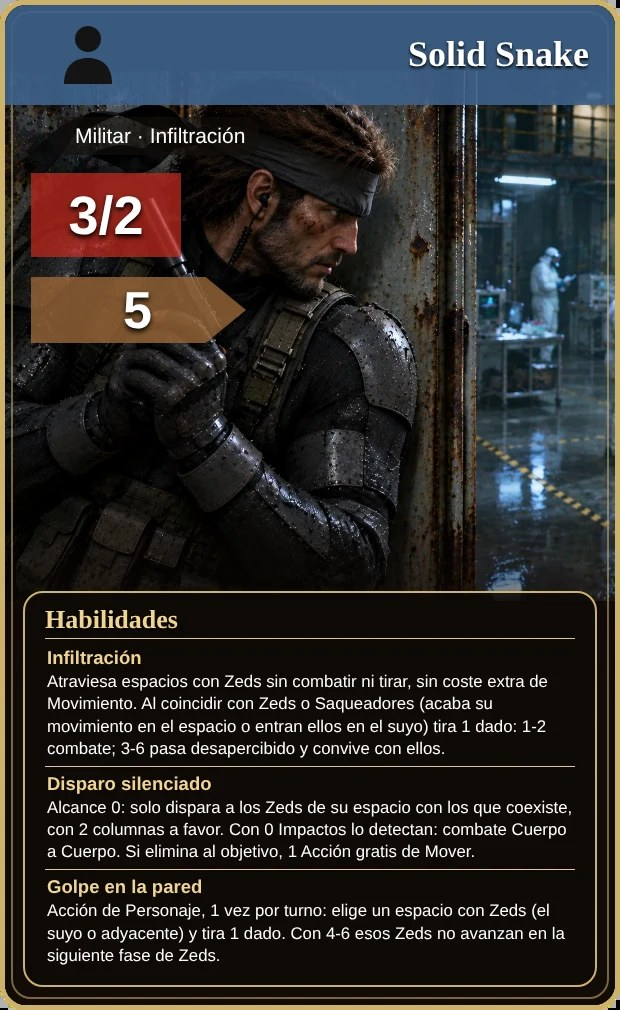
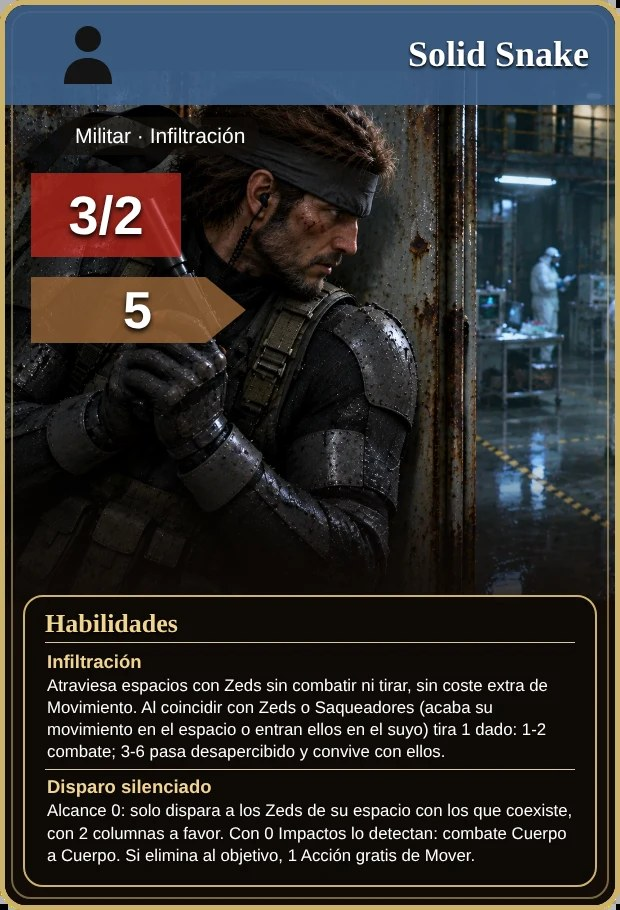
Solid Snake: se quita la acción «Golpe en la pared» (no pedida); carta ajustada a 2 habilidades
Claude-Session: https://claude.ai/code/session_01KmRiLcYw81ZWXjSnc4kn6e

diff --git a/js/actions.js b/js/actions.js
@@ -131,8 +131,6 @@ function trapSpaces(u) {
   return [u.space].concat(adjacentIds(u.space)).filter((id, k, a) => a.indexOf(id) === k && sp(id) && isRouteSp(id) && !isInit(id) && sp(id).kind !== 'crypt' && !blocked(id) && !zedsAt(id).length && !hasTrap(sp(id).route));
 }
 /* Salto temporal (Doc Brown): solo desde el Centro, 3 Suministros, a un espacio de ruta de superficie sin Zeds que no sea Inicial. Un acompañante (Héroe o Civiles Heroicos que puedan usar vehículos) puede quedarse allí. */
-/* Solid Snake, Golpe en la pared: espacios con Zeds (el suyo o adyacentes) que puede distraer. */
-function golpeTargets(u) { return [u.space].concat(adjacentIds(u.space)).filter((id, i, a) => id && G.spaces[id] && !isInit(id) && a.indexOf(id) === i && zedsAt(id).length > 0); }
 const DOC_NO_RIDE = ['pepinillos', 'horacio', 'lee', 'carter', 'heli'];
 function docCompanions(u) { return unitsAt('C').filter(x => x !== u && (x.type === 'hero' || x.type === 'civh') && !DOC_NO_RIDE.includes(x.key) && !x.ecg && !x.mount && !x.rider && !x.resist && !isPetra(x)); }
 function docJumpSpaces(u, comp) {
@@ -201,7 +199,6 @@ function unitActions(u) {
     if (u.key === 'jones') A.push({ id: 'planes', label: 'Sus Propios Planes', ok: cu('planes') });
     if (u.key === 'jones' && G.res && u.space && sp(u.space).kind === 'office') A.push({ id: 'jhosp', label: 'Sus Propios Planes: paciente al Cementerio + Investigación', ok: cu('planes') && G.res.deck.length > 0 && hospitalUnits(u).length > 0 });
     if (u.key === 'hunt') A.push({ id: 'lid', label: 'Liderazgo', ok: cu('lid') });
-    if (u.key === 'snake') A.push({ id: 'pared', label: 'Golpe en la pared', ok: cu('pared') && golpeTargets(u).length > 0 });
     if (u.key === 'alia') A.push({ id: 'calle', label: 'Ya no es hora de estar en la calle', ok: cu('calle') && calleTargets(u).length > 0 });
     if (u.key === 'heli') A.push({ id: 'vuelo', label: 'Vuelo: despegar (1 Suministro)', ok: cu('vuelo') && G.supplies >= 1 && heliLandSpaces(u, null).some(id => id !== u.space) });
     if (u.key === 'brigada') A.push({ id: 'desinf', label: 'Desinfección (−2 Infección, 1 acc.)', ok: pay(1) && !!G.lv.infection && G.inf > 0 });
@@ -260,14 +257,6 @@ async function runAction(u, id) {
     case 'bcure': G.supplies--; healUnit(u); u.curedTurn = G.turnNo; LOG(u.name + ' se repara en el Centro (−1 Suministro).', 'good'); UI.redraw(); UI.updateStats(); break;
     case 'jhosp': { const c = hospitalUnits(u); if (!c.length) break; const v = await UI.pickUnit(c, 'Jones: elige la unidad del Hospital que va al Cementerio.', true); if (v == null) break; G.charUsed.planes = true; await sendCemetery(G.units[v], 'es trasladada al Cementerio por Jones'); await revealResearch(); break; }
     case 'planes': G.charUsed.planes = true; u.free++; LOG('Jones usa Sus Propios Planes: 1 acción gratis para él.', 'good'); break;
-    case 'pared': {
-      const c = golpeTargets(u); if (!c.length) { LOG('No hay Zeds a los que distraer.'); break; }
-      const d = c.length === 1 ? c[0] : await UI.pickSpace(c, 'Golpe en la pared: elige el espacio de Zeds a distraer (el suyo o uno adyacente).', true); if (d == null) break;
-      G.charUsed.pared = true;
-      const r = await rollShownFor(u, 'Golpe en la pared (Solid Snake)', r => r >= 4 ? '<b>' + r + '</b>: los Zeds se distraen y no avanzarán este turno' : '<b>' + r + '</b>: no pican (necesita 4-6)'); LOG('Golpe en la pared: ' + r);
-      if (r >= 4) { G.turn.distraidos = (G.turn.distraidos || []).concat(d); LOG('Los Zeds de ' + spaceLabel(d) + ' siguen el ruido y no avanzarán en la fase de Zeds.', 'good'); } else LOG('Los Zeds ignoran el ruido.');
-      break;
-    }
     case 'calle': { const c = calleTargets(u); if (!c.length) { LOG('No hay Civiles que puedan avanzar.'); break; } const v = c.length === 1 ? c[0].id : await UI.pickUnit(c, 'Elige la unidad que avanza hacia el Centro.', true); if (v == null) break; const x = G.units[v], ds = calleDests(x); const d = ds.length === 1 ? ds[0] : await UI.pickSpace(ds, 'Alia: elige el destino de ' + x.name + ' (hasta 2 espacios hacia el Centro).', true); if (d == null) break; G.charUsed.calle = true; if (x.resist) { x.resist = false; LOG(x.name + ' deja de estar Resistiendo.'); } LOG('Alia manda a ' + x.name + ' hacia el Centro.', 'good'); await doMove(x, d, [x.space, d]); break; }
     case 'despejar': {
       if (!despejarOk(u)) { LOG('No se puede Despejar aquí.'); break; }

diff --git a/js/expansions.js b/js/expansions.js
@@ -37,7 +37,7 @@ Object.assign(HEROES, {
   caza: { name: 'Club de Caza de Farmingdale', type: 'civh', cls: 'Civiles Heroicos', full: 3, red: 2, mp: 3, img: 'caza', card: 'h_caza', lv: 2, exp: 4, hf: 2, hr: 2,
     txt: ['<b>Puesto de caza:</b> disparan a 2 espacios sin penalización de columna.', '<b>Trofeo:</b> cuando su disparo elimina a una unidad Zed, recuperan 1 Munición.', '<b>Presa marcada:</b> Acción de Personaje (1 Acción), una vez por turno: marcan una unidad Zed a su alcance. Los disparos de cualquier unidad de jugador contra ella tienen 1 columna a favor hasta que sea eliminada o termine el turno.', '<b>A campo abierto:</b> tienen 1 columna en contra en combates Cuerpo a Cuerpo.'] },
   snake:     { name: 'Solid Snake',        type: 'hero', cls: 'Militar',    full: 3, red: 2, mp: 5, img: 'snake', card: 'h_snake', lv: 1, exp: 4,
-    txt: ['<b>Infiltración:</b> puede atravesar espacios con Zeds sin combatir ni tirar, y sin coste extra de Movimiento. Al coincidir con Zeds o Saqueadores (porque acaba su movimiento en el espacio o porque entran ellos en el suyo) tira 1 dado: 1-2 combate normal; 3-6 pasa desapercibido y convive con ellos sin combatir.', '<b>Disparo silenciado:</b> solo dispara a los Zeds de su propio espacio con los que coexiste sin combatir (alcance 0), con 2 columnas a favor. Si el disparo hace 0 Impactos, lo detectan: pierde el sigilo y hay combate Cuerpo a Cuerpo. Si elimina al objetivo, recibe 1 Acción gratis de Mover.', '<b>Golpe en la pared:</b> Acción de Personaje, una vez por turno: elige un espacio con Zeds, el suyo o uno adyacente. Tira 1 dado: con 4-6 esos Zeds se distraen y no avanzan en la siguiente fase de Zeds.'] },
+    txt: ['<b>Infiltración:</b> puede atravesar espacios con Zeds sin combatir ni tirar, y sin coste extra de Movimiento. Al coincidir con Zeds o Saqueadores (porque acaba su movimiento en el espacio o porque entran ellos en el suyo) tira 1 dado: 1-2 combate normal; 3-6 pasa desapercibido y convive con ellos sin combatir.', '<b>Disparo silenciado:</b> solo dispara a los Zeds de su propio espacio con los que coexiste sin combatir (alcance 0), con 2 columnas a favor. Si el disparo hace 0 Impactos, lo detectan: pierde el sigilo y hay combate Cuerpo a Cuerpo. Si elimina al objetivo, recibe 1 Acción gratis de Mover.'] },
 });
 CIVH_POOL.push('jaque', 'sar', 'caza', 'brigada');
 const EXP_HEROES = { 1: ['carter', 'lee', 'may'], 2: ['betty'], 4: ['porter', 'alia', 'bender', 'ash', 'frank', 'doc', 'samcarter', 'macgyver', 'heli', 'snake'] };

diff --git a/js/phases.js b/js/phases.js
@@ -127,8 +127,6 @@ async function moveGroup(movers, from, opts) {
   if (!go.length) { LOG('Los Zeds en ' + spaceLabel(from) + ' no pueden avanzar (límite de agrupamiento).'); return { moved: false }; }
   // Perímetro de Kingman
   if (perimeterBlocks(from, dest)) { const r = await rollShown('Perímetro Defensivo de Kingman', r => r >= 5 ? '<b>' + r + '</b>: los Zeds se detienen' : '<b>' + r + '</b>: los Zeds avanzan (necesita 5-6)'); if (r >= 5) { LOG('El Perímetro Defensivo de Kingman detiene a los Zeds (' + r + ').', 'good'); return { moved: false }; } }
-  // Golpe en la pared de Solid Snake
-  if (G.turn.distraidos && G.turn.distraidos.includes(from)) { LOG('Distraídos por el ruido de Solid Snake, los Zeds de ' + spaceLabel(from) + ' no avanzan.', 'good'); return { moved: false }; }
   // Ladrido de Pepinillos
   const pep = unitsAt(from).find(u => u.key === 'pepinillos'); if (pep && !isInit(from)) { const r = await rollShown('Ladrido de Pepinillos', r => r >= 4 ? '<b>' + r + '</b>: los Zeds se detienen' : '<b>' + r + '</b>: los Zeds avanzan (necesita 4-6)'); if (r >= 4) { LOG('El ladrido de Pepinillos detiene a los Zeds (' + r + ').', 'good'); return { moved: false }; } }
   // Trampa explosiva de Frank
